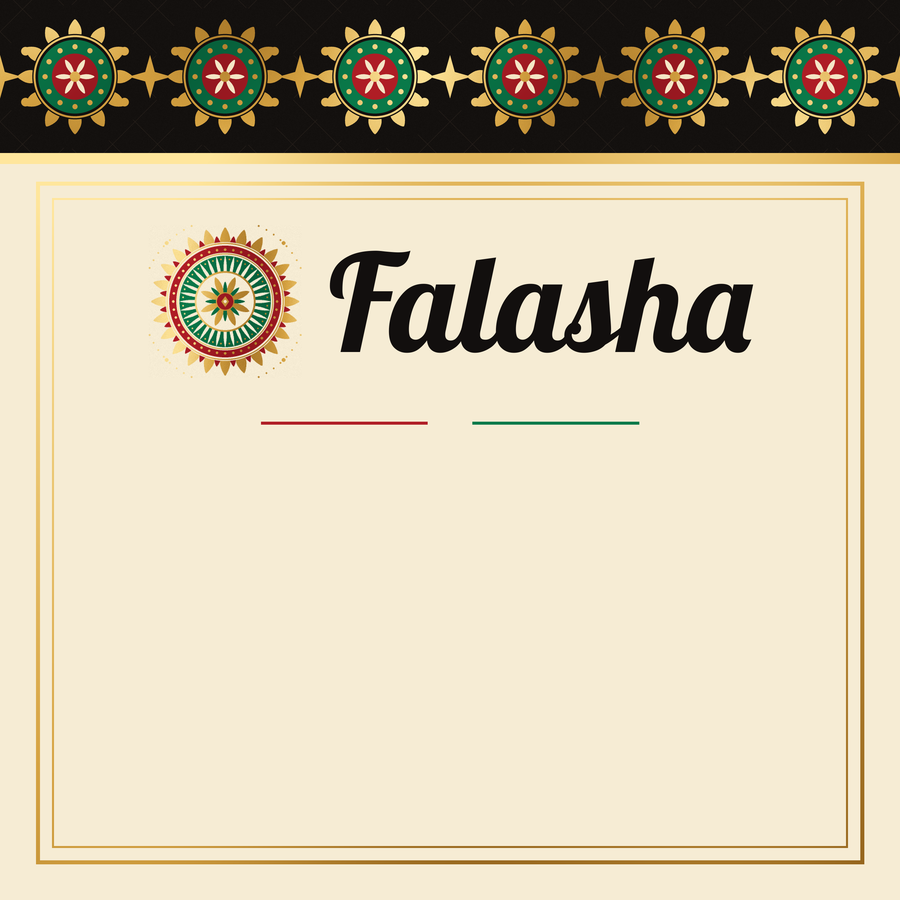
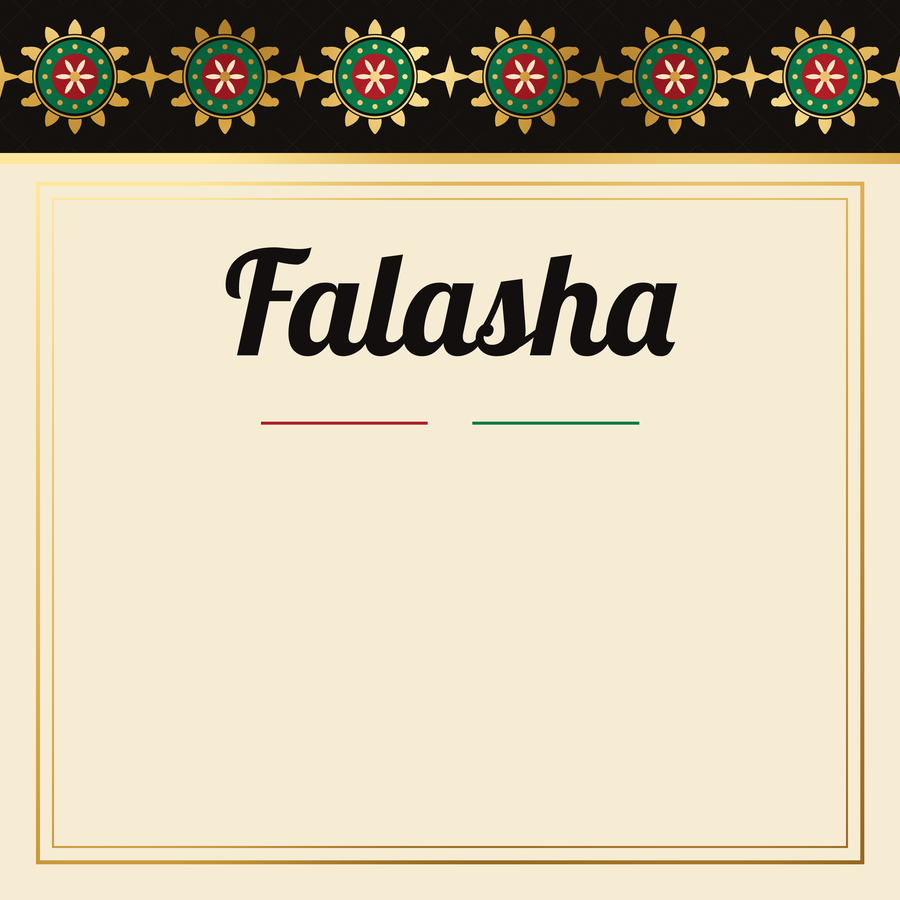
Royal Medallion labels: remove medallion emblem, keep name only
Claude-Session: https://claude.ai/code/session_01Mt1Tg14bgvqpkRSeX5tTDt

Changed region(s): [[0.1556, 0.2489, 0.84, 0.4356]]

diff --git a/heritage-crossbody-bag/make_circle_pieces.py b/heritage-crossbody-bag/make_circle_pieces.py
@@ -13,7 +13,7 @@ from pathlib import Path
 import numpy as np
 from PIL import Image, ImageDraw, ImageFilter, ImageFont
 
-from make_circle_pattern import (BG, CREAM, GOLD, GREEN, LINE, RED, SS, around, big_medallion, circle,
+from make_circle_pattern import (BG, CREAM, GOLD, GREEN, LINE, RED, SS, around, circle,
                                  mockup, ring, small_medallion, star4)
 from make_flow_labels import gold_fill
 from make_flow_pieces import crop, overview
@@ -106,29 +106,21 @@ def details(w=3000, h=1200):
     return finish_any(im, w, h)
 
 
-def emblem_slots(px, R):
-    S = px * SS
-    im = Image.new("L", (S, S), BG)
-    big_medallion(ImageDraw.Draw(im), S / 2, S / 2, R * SS)
-    return im
-
-
 def label_outside(fonts, px=900):
     S = px * SS
     base = Image.new("L", (S, S), BG)
     d = ImageDraw.Draw(base)
     lattice(d, S, S, 150 * SS)
-    big_medallion(d, S / 2, S * 0.33, S * 0.17)
     img = finish_any(base, px, px).convert("RGBA").resize((S, S), Image.LANCZOS)
     m = Image.new("L", (S, S), 0)
     md = ImageDraw.Draw(m)
     md.rectangle((S * 0.04, S * 0.04, S * 0.96, S * 0.96), outline=255, width=SS * 7)
     md.rectangle((S * 0.065, S * 0.065, S * 0.935, S * 0.935), outline=255, width=SS * 3)
-    f = ImageFont.truetype(str(fonts / "Lobster.ttf"), round(S * 0.17))
-    md.text((S / 2, S * 0.70), "Falasha", font=f, anchor="mm", fill=255)
+    f = ImageFont.truetype(str(fonts / "Lobster.ttf"), round(S * 0.20))
+    md.text((S / 2, S * 0.48), "Falasha", font=f, anchor="mm", fill=255)
     img.alpha_composite(gold_fill(m))
     d = ImageDraw.Draw(img)
-    y = S * 0.82
+    y = S * 0.63
     d.line((S * 0.32, y, S * 0.47, y), fill=(176, 30, 38), width=SS * 4)
     d.line((S * 0.53, y, S * 0.68, y), fill=(10, 122, 74), width=SS * 4)
     return img.convert("RGB").resize((px, px), Image.LANCZOS)
@@ -151,17 +143,9 @@ def label_inside(fonts, strip, px=900):
     m2 = m + S * 0.018
     gd.rectangle((m2, band_h + m * 0.8 + S * 0.018, S - m2, S - m2), outline=255, width=SS * 2)
     im.alpha_composite(gold_fill(gm))
-    # small medallion emblem + name in the logo zone
-    em = finish_any(emblem_slots(260, 120), 260, 260, bg=np.array([246, 236, 212], np.float32))
-    em = em.resize((round(S * 0.17), round(S * 0.17)), Image.LANCZOS)
-    f = ImageFont.truetype(str(fonts / "Lobster.ttf"), round(S * 0.15))
+    f = ImageFont.truetype(str(fonts / "Lobster.ttf"), round(S * 0.16))
     d = ImageDraw.Draw(im)
-    tw = d.textlength("Falasha", font=f)
-    gap = S * 0.03
-    x0 = (S - (em.size[0] + gap + tw)) / 2
-    cy = S * 0.335
-    im.paste(em, (round(x0), round(cy - em.size[1] / 2)))
-    d.text((x0 + em.size[0] + gap, cy), "Falasha", font=f, anchor="lm", fill=(18, 15, 14))
+    d.text((S / 2, S * 0.335), "Falasha", font=f, anchor="mm", fill=(18, 15, 14))
     y = S * 0.47
     d.line((S * 0.29, y, S * 0.475, y), fill=(176, 30, 38), width=SS * 3)
     d.line((S * 0.525, y, S * 0.71, y), fill=(10, 122, 74), width=SS * 3)
